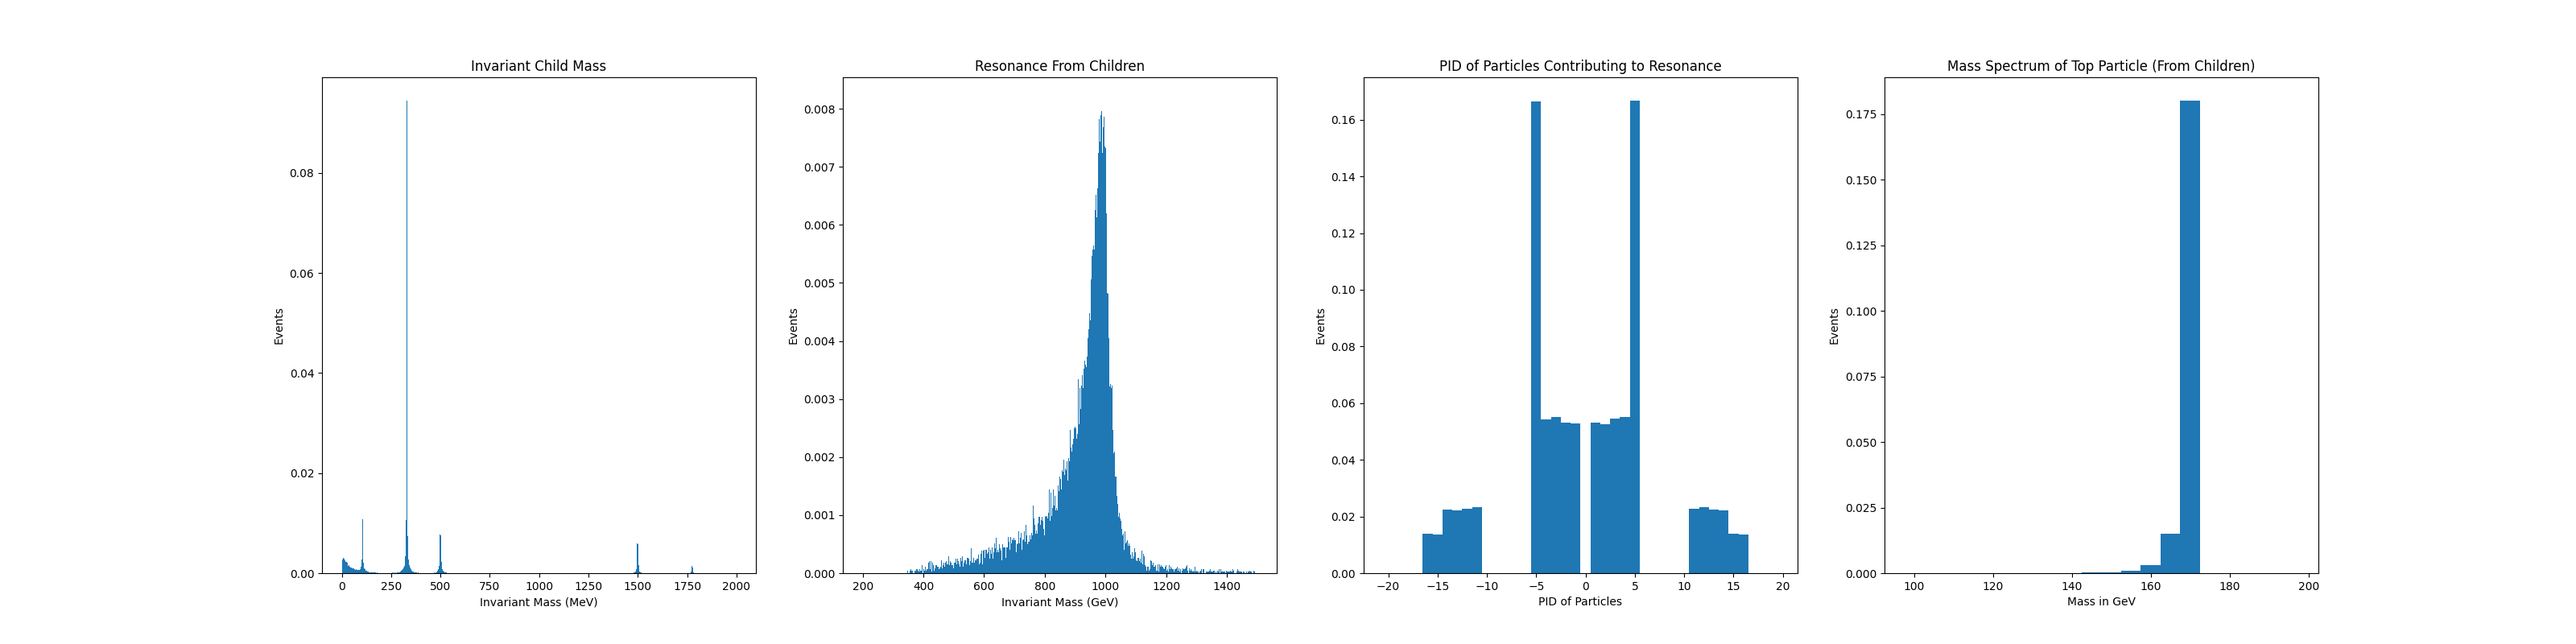
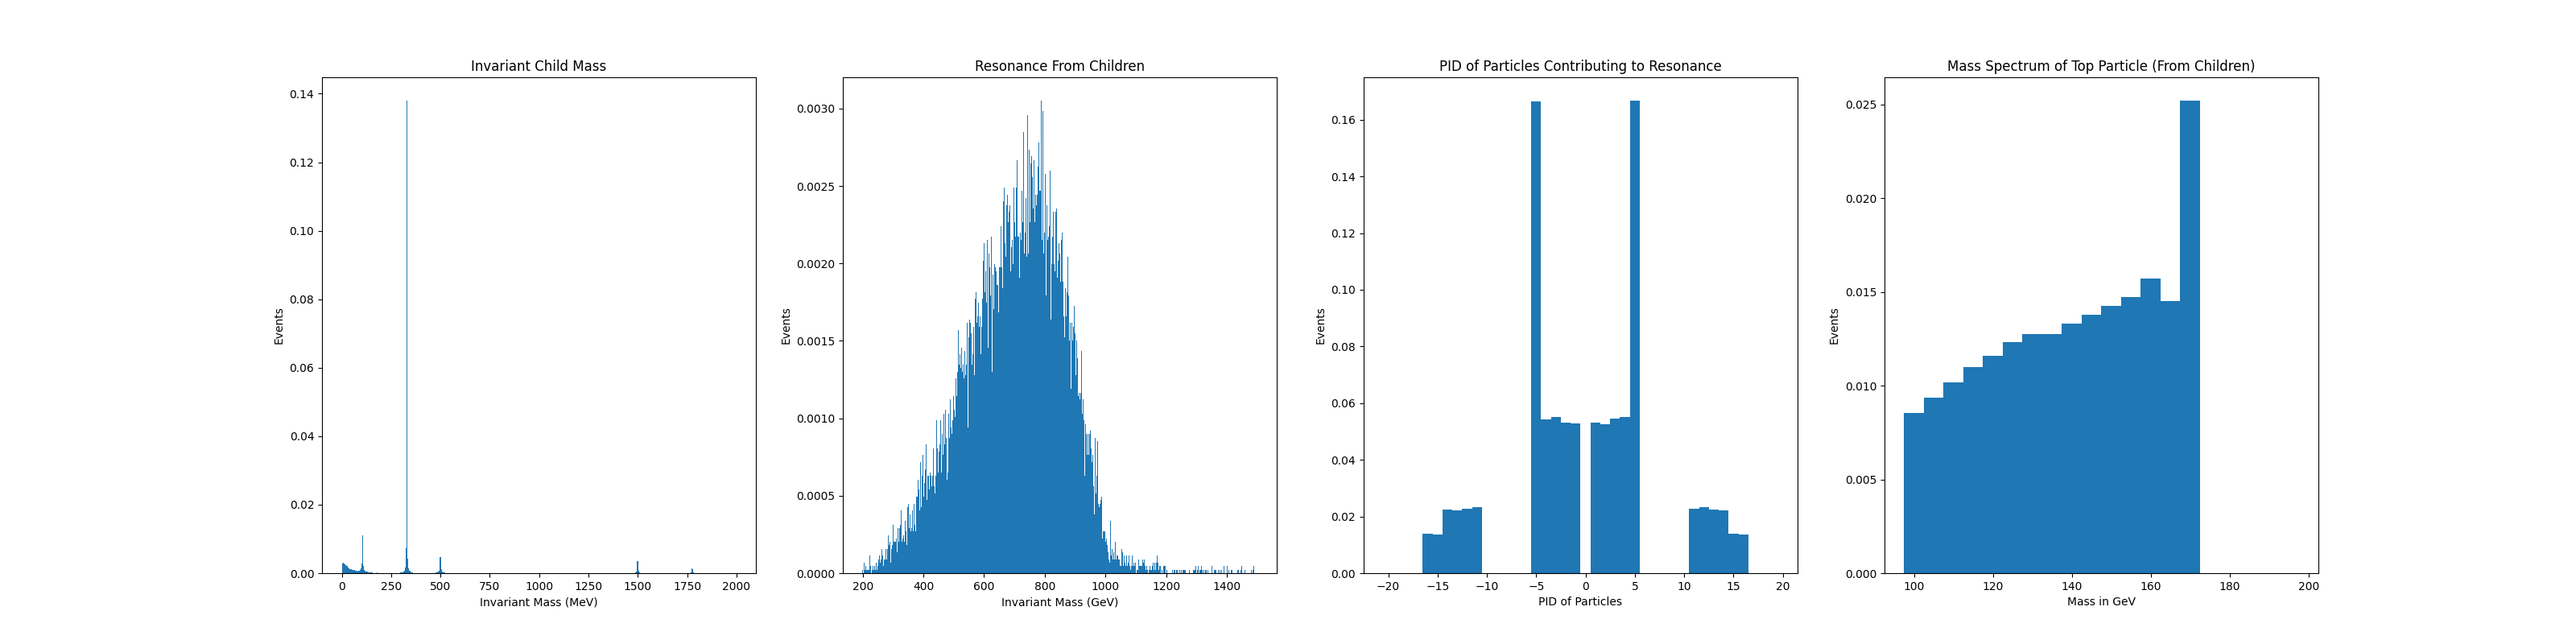
Working on a faster UpRoot Reading engine

diff --git a/BaseFunctions/FourTopsResonance.py b/BaseFunctions/FourTopsResonance.py
@@ -49,7 +49,7 @@ def AssociateSignalTopsToDetectorJets(file_dir):
     TruthJet_Objects = FileObjectsToArrays(ObjectsFromFile(file_dir, "nominal", ["truthjet_flavour"]))["nominal"]
     
     # ===== Child Objects from Branch 
-    Child_Objects = ObjectsFromFile(file_dir, "nominal", ["top_initialState_child_pdgid", "truth_top_initialState_child_e", "truth_top_initialState_child_eta", "truth_top_initialState_child_phi", "truth_top_initialState_child_pt"])[file_dir]
+    Child_Objects = ObjectsFromFile(file_dir, "nominal", ["truth_top_child_pdgid", "truth_top_child_e", "truth_top_child_eta", "truth_top_child_phi", "truth_top_child_pt"])[file_dir]
 
     SignalMass = []
     SpectatorMass = []
@@ -57,11 +57,11 @@ def AssociateSignalTopsToDetectorJets(file_dir):
     ParticlePID = []
     TopMass = []
     for files in Child_Objects:
-        ChildPDGID = Child_Objects[files]["nominal"][1]["top_initialState_child_pdgid"].array()
-        Child_E = Child_Objects[files]["nominal"][1]["truth_top_initialState_child_e"].array()
-        Child_ETA = Child_Objects[files]["nominal"][1]["truth_top_initialState_child_eta"].array()
-        Child_PHI = Child_Objects[files]["nominal"][1]["truth_top_initialState_child_phi"].array()
-        Child_PT = Child_Objects[files]["nominal"][1]["truth_top_initialState_child_pt"].array() 
+        ChildPDGID = Child_Objects[files]["nominal"][1]["truth_top_child_pdgid"].array()
+        Child_E = Child_Objects[files]["nominal"][1]["truth_top_child_e"].array()
+        Child_ETA = Child_Objects[files]["nominal"][1]["truth_top_child_eta"].array()
+        Child_PHI = Child_Objects[files]["nominal"][1]["truth_top_child_phi"].array()
+        Child_PT = Child_Objects[files]["nominal"][1]["truth_top_child_pt"].array() 
 
         FromRes = TruthTop_Objects["top_FromRes"]
         

diff --git a/BaseFunctions/IO.py b/BaseFunctions/IO.py
@@ -124,3 +124,33 @@ def ReturnTreeFromFile(file_dir, trees = [], branches = []):
         Output_dict[original[f]] = [tree_obj[found[f]], branch_dict]
     
     return Output_dict
+
+def SpeedOptimization(files):
+    
+    def SafeCheck(key, uproot_obj):
+        Avail = False
+        try:
+            root_f[key]
+            Avail = True
+        except uproot.exceptions.KeyInFileError:
+            Avail = False
+        return Avail
+
+
+
+
+    folder_files_dict = ListSampleDirectories(files)
+    
+    root_dir = ["nominal"]
+    leaves = ["top_FromRes", "truth_top_charge", "truth_top_e", "truth_top_pt", "truth_top_child_e"]
+     
+    Found_In_File = {}
+
+    for i in folder_files_dict:
+        root_files = folder_files_dict[i]
+        for x in root_files:
+            root_f = uproot.open(x)
+                
+            for r in root_dir:
+                if SafeCheck("nominal", root_f):
+                    print(type(root_f[r]))

diff --git a/main.py b/main.py
@@ -1,5 +1,5 @@
 from glob import glob
-from ClosureTests.IO import TestDirectoryList, TestObjectsFromFile
+from ClosureTests.IO import TestDirectoryList, TestObjectsFromFile, TestSpeedOptimization
 from ClosureTests.FourTopsResonance import PlottingResonance, TestAssociateSignalTopsToDetectorJets
 from ClosureTests.UpRootFunctions import TestFileObjectsToArrays
 
@@ -8,6 +8,8 @@ if __name__ == "__main__":
     #TestObjectsFromFile(entry_dir)
     #PlottingResonance()
     #TestFileObjectsToArrays()
-    TestAssociateSignalTopsToDetectorJets()
-
+    #TestAssociateSignalTopsToDetectorJets()
+    
+    TestSpeedOptimization()
+    
     

diff --git a/ClosureTests/FourTopsResonance.py b/ClosureTests/FourTopsResonance.py
@@ -28,7 +28,7 @@ def PlottingResonance():
 def TestAssociateSignalTopsToDetectorJets():
 
     files = "/CERN/Grid/SignalSamples/user.pgadow.310845.MGPy8EG.DAOD_TOPQ1.e7058_s3126_r10724_p3980.bsm4t-21.2.164-1-0-mc16e_output_root"
-    #files = "/home/tnom6927/Downloads/user.pgadow.310845.MGPy8EG.DAOD_TOPQ1.e7058_s3126_r9364_p3980.bsm4t-21.2.164-1-0-mc16a_output_root"
+    #files = "/dev/shm/user.pgadow.310845.MGPy8EG.DAOD_TOPQ1.e7058_s3126_r10724_p3980.bsm4t-21.2.164-1-0-mc16e_output_root"
     SignalMass, IndividualParticles, ParticlePID, TopMass = AssociateSignalTopsToDetectorJets(files)
    
     #Create a simple sub-plot 

diff --git a/ClosureTests/IO.py b/ClosureTests/IO.py
@@ -1,4 +1,4 @@
-from BaseFunctions.IO import ListSampleDirectories, ObjectsFromFile
+from BaseFunctions.IO import ListSampleDirectories, ObjectsFromFile, SpeedOptimization
 
 def TestDirectoryList(entry_dir):
 
@@ -65,6 +65,11 @@ def TestObjectsFromFile(entry_dir):
     Assessment(out, "ROOT_Folder+ROOT_Files+MultipleTree+MultipleBranch (one of the branches isnt actually there)")
 
 
+def TestSpeedOptimization():
+    files = "/dev/shm/user.pgadow.310845.MGPy8EG.DAOD_TOPQ1.e7058_s3126_r10724_p3980.bsm4t-21.2.164-1-0-mc16e_output_root"
+    SpeedOptimization(files)
+
+    
         
 
 
